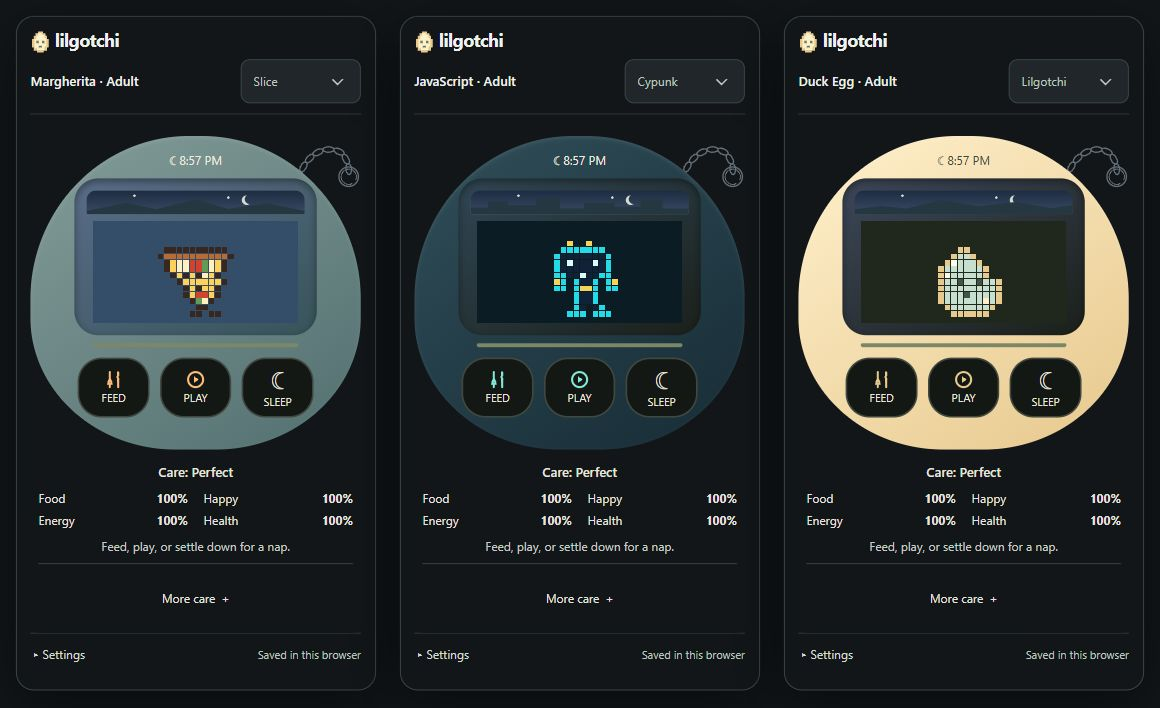
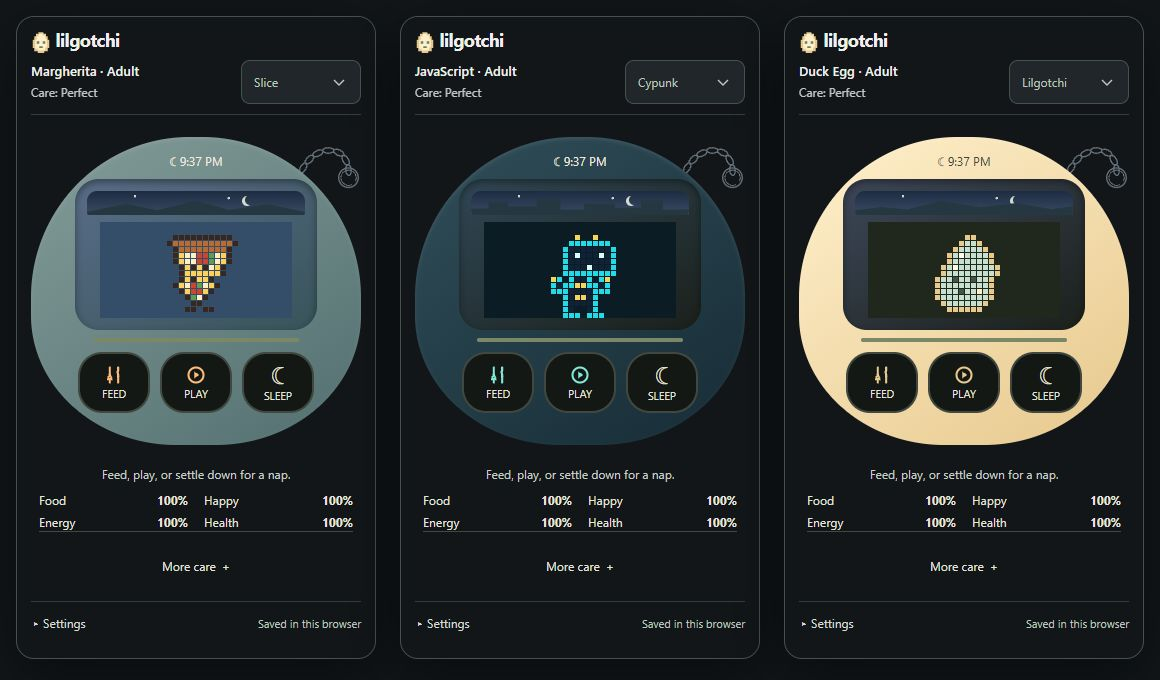
update docs and photos

diff --git a/docs/frame-contract.md b/docs/frame-contract.md
@@ -6,11 +6,11 @@ The screen is 32 by 16 pixels. Keep the whole pet on it, including toppings, ant
 
 Sprites are rectangular arrays of palette numbers. Zero is transparent. Freeze the finished arrays and rows.
 
-Custom pets need an egg and all 11 character identities. Eggs use `idle1` and `idle2`. Hatched pets also need `happy`, `sad`, `eat` and `sleep`.
+Custom pets need an egg and all 11 character identities. Eggs use `idle1` and `idle2`. Hatched pets also need `happy`, `sad`, `eat`, `sleep`, `lookLeft`, `lookRight` and `lookUp`.
 
-Use a consistent canvas and foot position across expressions. Custom bodies are 12 by 12 pixels. Eggs are 12 by 10. The renderer allows bodies up to 16 by 12, but shared care effects need room too.
+Use a consistent canvas and foot position across expressions. Custom frames can vary by character. Slice uses up to 12 by 14 pixels, Cypunk up to 14 by 15, and Lilgotchi up to 14 by 14. Custom eggs are 12 by 10. Keep shared care effects visible too. Quail Egg stays intentionally small at eight visible pixels tall.
 
-The Gen 1 and Gen 2 source bodies may use up to 16 by 16 pixels. Keep their original pixels intact. Their full care scenes are covered by the same collision and clipping checks. Other families retain their existing size limits.
+The Gen 1 and Gen 2 source bodies may use up to 16 by 16 pixels. Keep their original pixels intact. Their full care scenes are covered by the same collision and clipping checks. The custom families have their own proportions rather than matching every original character in height.
 
 Never crop a row or column to make movement fit.
 
@@ -28,11 +28,14 @@ Then open `/qa/` and `/design/evolution/` in the browser. Look at the animation 
 
 ## Guessing game poses
 
-Every hatched character provides `lookLeft` and `lookRight`. Directions use the viewer's point of view. The face turns without flipping markings or moving the whole sprite. These frames fit within the 16 by 16 game canvas and work with reduced motion.
+Every hatched character provides `lookLeft` and `lookRight`. Directions use the viewer's point of view. The face turns without flipping markings or moving the whole sprite. The character frames fit within 16 by 16 pixels and work with reduced motion.
 
-## Small game portraits
+## Game fields
 
-`pets/arcade-sprites.js` has separate 8 by 6 portraits for every hatched identity. These use each family's existing palette. They are drawn for the playfield, not scaled down at runtime.
+Games draw the full current pet and its expression frames. The compact 8 by 6 drawings in `pets/arcade-sprites.js` remain fallback art, not the normal game characters.
 
-Get and Heading place the portrait at `x = center - 4`, `y = 10 - jump`. That leaves the top ten rows for falling objects. Keep collision coordinates aligned with those positions. `/qa/compact.html` shows all 44 portraits.
-The guessing game draws its full poses at eight screen pixels per sprite pixel. Other previews keep the default scale of four. The pet gets a 128 by 128 area, with smaller arrow buttons beside it so the layout fits narrow screens.
+All fields are 32 pixels wide. Get and Heading use 40 rows so even tall pets leave room for falling objects. Sprint uses 34 rows, with two 16 pixel lanes and a gap. Other games use 24 rows.
+
+Heading uses `headingPose()` for both drawing and head contact. Get places the catch point at the visible top of the pet and accounts for the falling object's height. Keep these calculations together when changing art.
+
+The guessing game centers full poses in a 32 by 24 field at eight screen pixels per sprite pixel. Other previews use a default scale of four. Canvas proportions follow the field dimensions.

diff --git a/design/games/release-checklist.md b/design/games/release-checklist.md
@@ -11,7 +11,7 @@ Taylor approved both releases on November 9, 2026. Merge the patch first, then r
 
 Check the instructions, controls, score, win, loss, quit and replay. Test the same timing with different frame sizes. Repeated input cannot score twice. A finished or abandoned run cannot change a later run.
 
-Look at all four families, from baby through elder. Direction changes must be visible. Keep the whole pet, ball, opponent and effects inside the display. Use the full current pet, with enough room for the game around it.
+Look at all five families, from baby through elder. Direction changes must be visible. Keep the whole pet, ball, opponent and effects inside the display. Use the full current pet, with enough room for the game around it.
 
 Check touch and keyboard controls on mobile and desktop. Keep buttons large. Show sound cues visually. Check reduced motion, focus, spoken instructions and paused playback.
 
@@ -45,8 +45,8 @@ Keyboard checks covered Tab, Shift Tab, arrow input, Escape, closing and reopeni
 
 No physical phone was connected. Audio listening and a human screen reader session remain unverified. The browser tools do not expose video recording. The timing simulations and screenshots are not substitutes for those checks.
 
-## Game polish in review
+## Current game polish
 
-Check full pet art in the 32 by 24 game field, clear Flag waiting cues, Memory answer feedback and Hoops shots through the rim. Heading must contact the visible head rather than a generic box. Replay must start a fresh run and reward it only once.
+Check full pet art in each game field: 32 by 40 for Get and Heading, 32 by 34 for Sprint and 32 by 24 for the others, clear Flag waiting cues, Memory answer feedback and Hoops shots through the rim. Heading must contact the visible head rather than a generic box. Replay must start a fresh run and reward it only once.
 
-The model checks cover every current pet sprite in Heading, moving head collisions, Flag timing, paused Memory answers and Hoops rim crossings. Browser review of the integrated changes is still required. Do not treat model tests as a playtest.
+The model checks cover every current pet sprite in Heading, moving head collisions, Flag timing, paused Memory answers and Hoops rim crossings. Desktop browser review covered the larger sprites in all eight rendered layouts, the corrected Sprint lanes inside the widget, the taller falling game fields, music notes and shifting Hoops targets. A full human playthrough with every species is still unverified. Do not treat model tests as a playtest.

diff --git a/design/games/README.md b/design/games/README.md
@@ -26,7 +26,7 @@ This is the seven game Connection set, not every game from every Tamagotchi. The
 
 Play opens a game picker. Game names, instructions, score, progress, pause and exit sit outside the pixel display. Show one short instruction before Start. The display is for the pet and playfield.
 
-Use a 32 by 24 game field and integer pixels. Give each game up to three large touch controls below it, with matching keyboard controls. Do not put a tiny menu or text over the pet. Keep the same layout for all four families.
+Use integer pixels in a 32 pixel wide game field. Get and Heading are 40 pixels tall, Sprint is 34, and the other games are 24. Give each game up to three large touch controls below it, with matching keyboard controls. Do not put a tiny menu or text over the pet. Keep the same controls for all five families.
 
 Use the current pet and evolution. Draw new poses when needed. A symmetrical sprite flipped horizontally is not a visible turn. Keep eyes, toppings, antennae, cracks and readable symbols recognizable. Check the largest adult and elder forms before approving the layout.
 
@@ -43,7 +43,7 @@ The 2.0 contract:
 
 ## Review notes
 
-2.0 is released. The next polish pass keeps the full current pet in each game, adds room around the controls and makes the cues easier to follow. That pass is still in review. Physical phone playtesting, audio listening, human screen reader checks and longer balance sessions remain unverified. See the [review checklist](release-checklist.md).
+The games use each current pet in full, with taller fields for falling objects and separate Sprint lanes. Get has music note shapes and slower drops. Hoops moves its target between shots. These changes are merged into main after 3.0.4. Physical phone playtesting, audio listening, human screen reader checks and longer balance sessions remain unverified. See the [review checklist](release-checklist.md).
 
 ## Before shipping
 

diff --git a/design/games/polish-review.md b/design/games/polish-review.md
@@ -1,11 +1,11 @@
 # Game polish review
 
-The game screen is now 32 by 24 pixels. It draws the current pet's full sprite and colors. Opponents stay separate.
+Game fields are 32 pixels wide. Get and Heading use 40 rows, Sprint uses 34, and the other games use 24. It draws the current pet's full sprite and colors. Opponents stay separate.
 
 Finished games show Play again and Back to games. Input controls disappear after the result. Left and right uses the same screen shape and keeps an exit available. Mobile controls fit their columns.
 
 Heading checks the visible upper head pixels and accounts for the head rising during a jump. Hoops crosses the rim from above and falls through a visible net. Memory shows cue and answer poses. Flag gives a preparation beat, a longer response window and an X for waiting. Sprint shows red, yellow and green lights.
 
-254 tests pass. The build passes. Browser review used 390 and 320 pixel widths. It covered the picker, guessing result and replay, arcade replay, Memory cue and answer poses, raised flags, Sprint lights, a successful Heading contact and a made Hoops shot. Frozen review scenes use real game models with fixed time inputs. They are not full human playthroughs.
+The earlier polish pass passed 254 tests. The build passes. Browser review used 390 and 320 pixel widths. It covered the picker, guessing result and replay, arcade replay, Memory cue and answer poses, raised flags, Sprint lights, a successful Heading contact and a made Hoops shot. Frozen review scenes use real game models with fixed time inputs. They are not full human playthroughs.
 
-Physical phone and longer human balance checks still need doing. These changes are in review, not deployed.
+Physical phone and longer human balance checks still need doing. The latest artwork and game changes are merged into main after 3.0.4. A new release is being prepared.

diff --git a/design/games/get.md b/design/games/get.md
@@ -8,13 +8,13 @@ Catch falling notes. Avoid poop. This is the objective in the [Connection manual
 
 Left and Right move the pet between three lanes. Use the arrow keys on a keyboard. Holding a direction moves with a capped repeat rate, never faster on a faster device.
 
-Run for 30 seconds. A note gives one point. Missing a note costs no life. Catching poop costs one of three lives. Finish with at least 12 notes and a life left to win. Falling speed increases in three gentle steps. These values need playtesting.
+Run for 30 seconds. A note gives one point. Missing a note costs no life. Catching poop costs one of three lives. Finish with at least 12 notes and a life left to win. Drops take about 1.67 seconds in the first ten seconds, 1.43 in the next ten and 1.25 in the last ten. These values need playtesting.
 
 ## Screen and art
 
-Keep the pet at the bottom and the falling objects above it. Use small, distinct note and poop shapes. A hit triggers a brief happy or startled pose. The score, lives and remaining time go below the display.
+Keep the pet at the bottom and the falling objects above it. Music notes have a filled head, stem and flag so they are distinct from poop. A hit triggers a brief happy or startled pose. The score, lives and remaining time go below the display.
 
-Use the actual pet's bounds for lanes and spawn timing. Leave enough vertical warning for the tallest sprite. Spawn only one object at a time in the first version. Never make a hazard unavoidable. If 32 by 16 is too cramped, revise this layout before implementation rather than hiding part of the pet.
+Use a 32 by 40 field for every pet. The visible head sets the catch height. Leave enough vertical warning for the tallest sprite. Spawn only one object at a time in the first version. Never make a hazard unavoidable.
 
 ## Check it
 

diff --git a/design/games/hoops.md b/design/games/hoops.md
@@ -6,11 +6,11 @@ Time a shot into a basketball hoop, as described in the [Connection manual](http
 
 ## Our version
 
-Shoot or Space stops an aim meter. Make the basket when the marker lands in its visible target. Play five shots and score three to win. Narrow the target slightly after each successful shot. Press Shoot once to start the meter, then again to take the shot. The meter travels out and back in 2.4 seconds, or four seconds in slower mode. The ball takes 900 ms to land. Target edges count as a hit.
+Shoot or Space stops an aim meter. Make the basket when the marker lands in its visible target. Play five shots and score three to win. The first target is centered. After each shot it changes sides with a varied position, then stays still while aiming. Narrow the target slightly after each successful shot. Press Shoot once to start the meter, then again to take the shot. The meter travels out and back in 2.4 seconds, or four seconds in slower mode. The ball takes 900 ms to land. Target edges count as a hit.
 
 ## Screen and art
 
-Pet on the left, hoop on the right, ball between them. Put the meter and shot count below the display. Keep the full current pet visible. A made shot crosses the rim from above, then drops through the net. Early shots fall short and late shots go past the rim. Keep misses inside the canvas too.
+Pet on the left, hoop on the right, ball between them. Put the meter and shot count below the display. Keep the full current pet visible. A made shot crosses the rim from above, then drops through the net. Stops below the current target fall short. Stops above it go past the rim. Keep misses inside the canvas too.
 
 ## Check it
 

diff --git a/docs/characters.md b/docs/characters.md
@@ -14,19 +14,19 @@ Each family has its own saved pet. Switching families doesn’t replace your pro
 
 ## The full lineups
 
-Each image shows the stages, adult branches and special elder. Open it to see the full size.
+Each image shows the stages, adult branches and special elder using the current sprites. Open it to see the full size.
 
 ### Slice
 
-![Slice stages and evolution paths](images/slice-family.jpg)
+![Slice stages and evolution paths](images/slice-family.png)
 
 ### Cypunk
 
-![Cypunk stages and evolution paths](images/cypunk-family.jpg)
+![Cypunk stages and evolution paths](images/cypunk-family.png)
 
 ### Lilgotchi
 
-![Lilgotchi stages and evolution paths](images/lilgotchi-family.jpg)
+![Lilgotchi stages and evolution paths](images/lilgotchi-family.png)
 
 ### Gen 1
 
@@ -37,6 +37,8 @@ Babytchi grows into Marutchi, then Tamatchi or Kuchitamatchi. Adults include Mam
 Shirobabytchi grows into Tonmarutchi, then Tongaritchi or Hashitamatchi. Adults include Mimitchi, Pochitchi, Nyatchi, Zuccitchi, Hashizoutchi, Kusatchi and Takotchi. Zuccitchi can become Sekitoritchi, Charitchi or Zatchi.
 
 Both generations use source pixels from [DemiumAjare's P1 and P2 sheets](https://www.spriters-resource.com/lcd_handhelds/tamagotchioriginalp1p2/). Regional variants are included together. These are adapted lilgotchi growth paths, not exact hardware emulation.
+
+The custom adults have more room for their shapes and details. Sizes vary on purpose. Quail Egg stays small, while Goose Egg and Jumbo Egg are larger. Gen 1 and Gen 2 keep their original source pixels.
 
 ## How they grow
 

diff --git a/design/games/heading.md b/design/games/heading.md
@@ -12,9 +12,9 @@ A successful header adds one point and sends the ball upward. Ten headers win. T
 
 ## Screen and art
 
-Show a small ball, the pet and a ground line. Score and misses sit below the display. Contact follows the occupied pixels in the upper half of the current pet. A rising head can meet a falling ball between frames.
+Show a small ball above the pet. Score and misses sit below the display. Contact follows the occupied pixels in the upper half of the current pet. A rising head can meet a falling ball between frames.
 
-Use the full current pet in a 32 by 24 game field, with room for the ball and jump. Keep a bounded arc so the ball never clips at the top. New serves must be reachable from the pet's current position.
+Use the full current pet in a 32 by 40 game field, with room for the ball and jump. Keep a bounded arc so the ball never clips at the top. New serves must be reachable from the pet's current position.
 
 ## Check it
 

diff --git a/docs/release-review.md b/docs/release-review.md
@@ -1,5 +1,11 @@
 # Release notes
 
+## Unreleased
+
+Redraws the custom adults with more body detail and a clearer growth progression. Quail Egg stays small. Get and Heading have taller fields, Get drops more slowly and uses music notes, Sprint gives each racer a separate full height lane, and Hoops changes its target between shots. Care information is easier to scan and the Settings switches are grouped below Sound.
+
+Browser checks covered the artwork, game layouts and Settings. Automated checks cover sprite bounds, race lane separation, falling game timing and Hoops targets. Physical phone testing and longer human balance sessions remain unverified.
+
 ## 3.0.4
 
 Setup choices preview immediately in the corner button without starting new pets or replacing saves. Dropdown arrows share the close button's center line across the website. The readme shows all three custom families with their chains.

diff --git a/design/games/left-right.md b/design/games/left-right.md
@@ -14,7 +14,7 @@ Left and right mean the viewer's left and right. The pet turns toward its answer
 
 ## Sprites
 
-Add explicit `lookLeft` and `lookRight` frames for every hatched identity in all four families. Give front facing pets an obvious eye, face or body turn. Keep markings such as 404 readable. A small move across the screen or a flipped symmetrical sprite does not count.
+Add explicit `lookLeft` and `lookRight` frames for every hatched identity in all five families. Give front facing pets an obvious eye, face or body turn. Keep markings such as 404 readable. A small move across the screen or a flipped symmetrical sprite does not count.
 
 Fit both poses in the existing 16 by 16 game canvas. Keep the whole pet visible. Review Gen 1, Gen 2, Slice, Cypunk and Lilgotchi from baby through elder.
 

diff --git a/design/games/sprint.md b/design/games/sprint.md
@@ -12,7 +12,7 @@ Start with a three second countdown. The course has 30 steps. Accept at most two
 
 ## Screen and art
 
-Use the current pet in the upper lane and a distinct opponent in the lower lane. Put race progress below the display. Keep the screen still and move the runners, with a visible finish marker. Reduced motion uses fewer pose changes and no scrolling scenery.
+Use a 32 by 34 field with two 16 pixel lanes and a two pixel gap. Use the current pet in the upper lane and a distinct opponent in the lower lane. Put race progress below the display. Keep the screen still and move the runners, with a visible finish marker. Reduced motion uses fewer pose changes and no scrolling scenery.
 
 ## Check it
 

diff --git a/README.md b/README.md
@@ -48,7 +48,7 @@ Copy the whole `node_modules/lilgotchi/dist` folder into your site's public asse
 
 ## Eight games to play with your lilgotchi
 
-Catch notes, bump an opponent, head a ball, repeat arrows, follow flags, race and shoot hoops. Or play the original guessing game. [See the games](https://github.com/TaylorOD/lilgotchi/blob/main/design/games/README.md).
+Catch music notes, bump an opponent, head a ball, repeat arrows, follow flags, race and shoot hoops. Or play the original guessing game. [See the games](https://github.com/TaylorOD/lilgotchi/blob/main/design/games/README.md).
 
 ## Work on it
 
